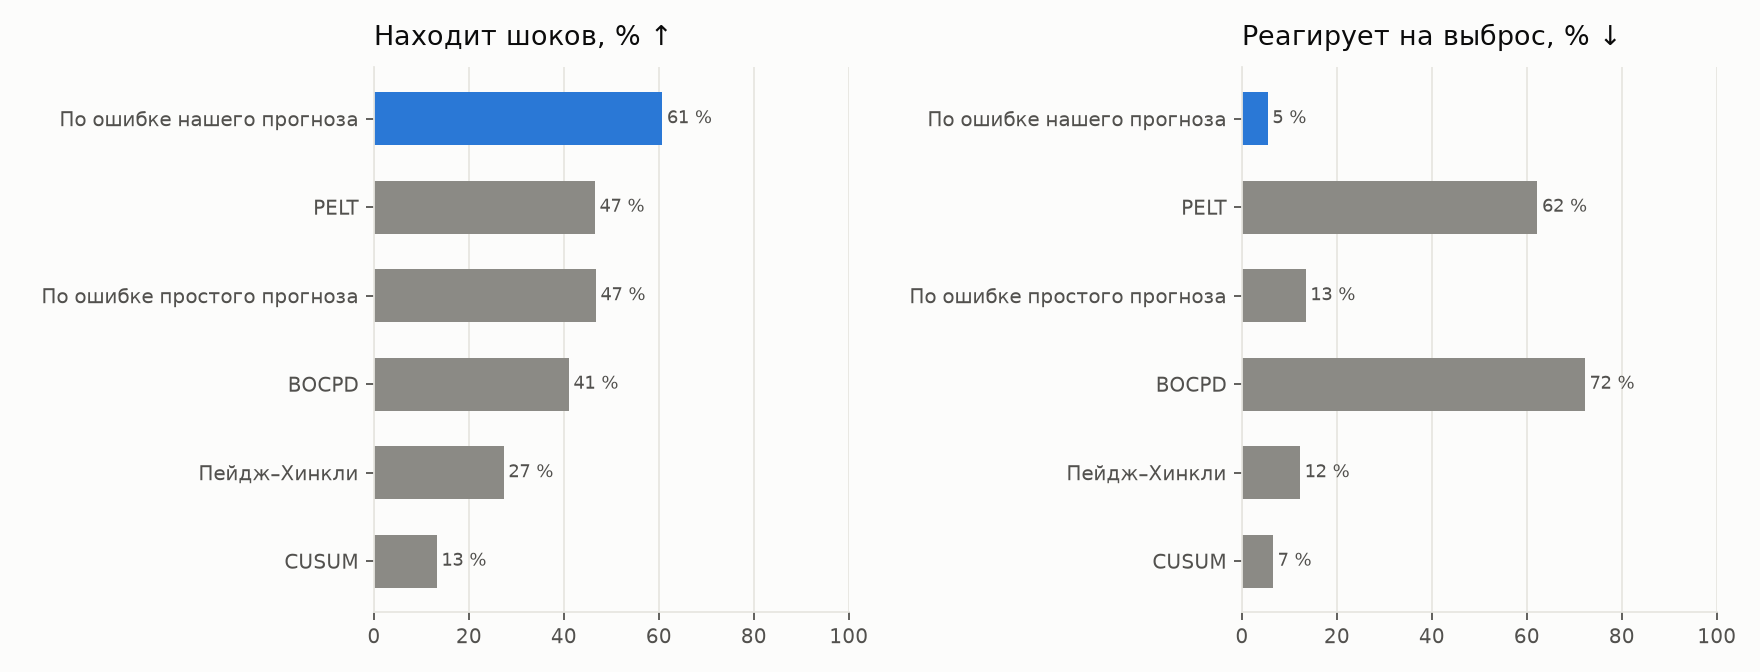
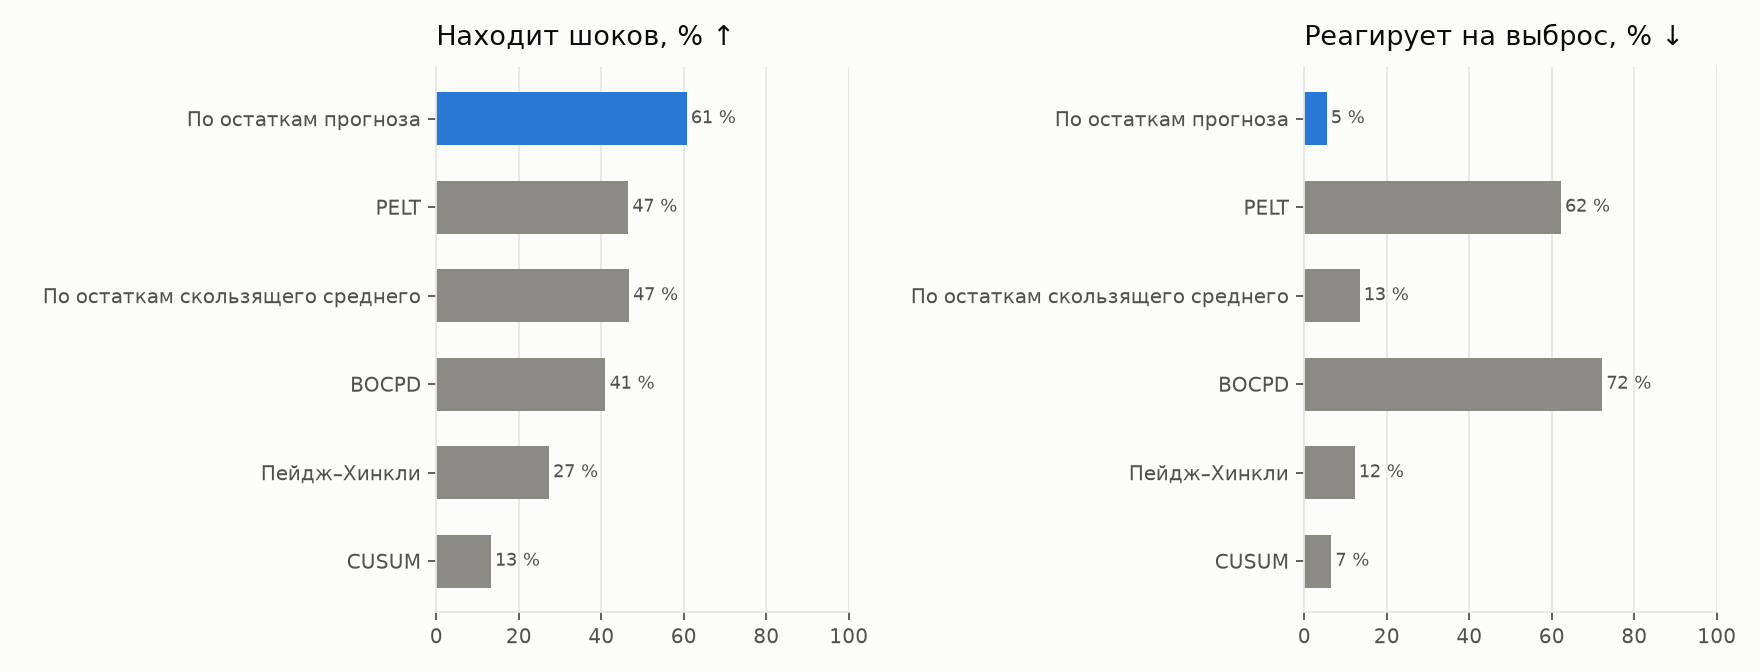
Перешёл на стандартные термины во всех документах, лендинге и графиках

diff --git a/reports/landing/index.html b/reports/landing/index.html
@@ -60,18 +60,18 @@ a{color:var(--blue)}
 <tbody>
 <tr><td>Траты в декабре 2023 (сезонность)</td><td>31 414 руб.</td></tr>
 <tr><td>Рост трат по России за год на момент прогноза</td><td>×1,178</td></tr>
-<tr class="best"><td>Прогноз «национальной основы»</td><td>36 996 руб.</td></tr>
+<tr class="best"><td>Прогноз сезонной наивной модели с дрейфом</td><td>36 996 руб.</td></tr>
 <tr><td>Факт</td><td>36 320 руб. (ошибка 1,8 %)</td></tr>
 </tbody></table></div>
-<p>Поверх основы модели машинного обучения учат только <b>поправку территории</b>: растёт ли МО быстрее или медленнее страны. Тот же прогноз служит детектором шоков: если МО два месяца подряд расходится с прогнозом сильнее остальных МО — это шок.</p>
+<p>Это <b>сезонная наивная модель с дрейфом</b>: прогноз = тот же месяц год назад × рост трат по России (дрейф берётся из агрегированного ряда — элемент иерархического прогнозирования). Поверх неё модели машинного обучения учат только <b>остатки</b> (гибридная модель): растёт ли МО быстрее или медленнее страны. Тот же прогноз служит детектором шоков: если МО два месяца подряд расходится с прогнозом сильнее остальных МО — это шок.</p>
 </div></section>
 
 <section><div class="wrap">
 <h2>Архитектура решения</h2>
 <div class="arch">
 <div class="box a"><h4>1. Данные</h4><p>Траты МО (организаторы), ряд России 2018–2026, справочник МО → регион (ОКТМО), индекс доступности рынков, 103 тыс. заголовков новостей.</p></div>
-<div class="box"><h4>2. Прогноз</h4><p>Национальная основа + поправка территории (сжатие роста, LightGBM) + фундаментальные модели (Chronos-2 дообученный, TimesFM, TiRex) → честный ансамбль с весами по прошлой точности.</p></div>
-<div class="box o"><h4>3. Шоки</h4><p>Для МО — детектор по ошибке прогноза (отклонение от прогноза сильнее остальных МО, 2 месяца подряд). Для России — BOCPD.</p></div>
+<div class="box"><h4>2. Прогноз</h4><p>Сезонная наивная с дрейфом + модели остатков (сжатие к росту страны, LightGBM) + фундаментальные модели (Chronos-2 дообученный, TimesFM, TiRex) → ансамбль с весами по прошлой точности.</p></div>
+<div class="box o"><h4>3. Шоки</h4><p>Для МО — детектор по остаткам прогноза (МО расходится с прогнозом сильнее остальных МО 2 месяца подряд). Для России — BOCPD.</p></div>
 <div class="box y"><h4>4. Новости</h4><p>Заголовок → месяц публикации (без будущего) → МО и регион по названиям → темы → помесячные доли. Объясняют шоки и крупные события.</p></div>
 </div>
 <p class="note">Проверка без подглядывания: перед каждой точкой прогноза модели обучаются только на прошлом; веса ансамбля — только по прошлым месяцам; автоматические тесты на утечку будущего.</p>
@@ -79,20 +79,20 @@ a{color:var(--blue)}
 
 <section><div class="wrap">
 <h2>Сравнение моделей прогноза</h2>
-<figure><img src="../figures/01_mae_by_horizon.png" alt="MAE по горизонтам: Prophet, Chronos-2 дообученный, национальная основа, честный ансамбль"><figcaption>MAE, руб. на жителя в месяц; скользящее окно по 2024 году, 2 016 МО.</figcaption></figure>
+<figure><img src="../figures/01_mae_by_horizon.png" alt="MAE по горизонтам: Prophet, Chronos-2 дообученный, сезонная наивная с дрейфом, ансамбль"><figcaption>MAE, руб. на жителя в месяц; скользящее окно по 2024 году, 2 016 МО.</figcaption></figure>
 <div class="tbl"><table>
 <thead><tr><th>Модель</th><th>1 мес.</th><th>3 мес.</th><th>6 мес.</th><th>12 мес.</th></tr></thead>
 <tbody>
 <tr class="base"><td>Prophet (базовая модель)</td><td>1 805</td><td>1 755</td><td>2 159</td><td>2 901</td></tr>
 <tr class="base"><td>Сезонная наивная «как год назад»</td><td>4 079</td><td>4 345</td><td>4 352</td><td>4 704</td></tr>
-<tr><td>Национальная основа</td><td>1 250</td><td>1 108</td><td>1 143</td><td>1 416</td></tr>
+<tr><td>Сезонная наивная с дрейфом</td><td>1 250</td><td>1 108</td><td>1 143</td><td>1 416</td></tr>
 <tr><td>LightGBM (глобальный, лучший вариант)</td><td>1 216</td><td>1 298</td><td>1 552</td><td>2 993</td></tr>
-<tr><td>Основа + поправка LightGBM</td><td>1 134</td><td>1 441</td><td>1 707</td><td>1 416</td></tr>
+<tr><td>Гибрид: сезонная наивная с дрейфом + LightGBM по остаткам</td><td>1 134</td><td>1 441</td><td>1 707</td><td>1 416</td></tr>
 <tr><td>Chronos-2, без обучения</td><td>1 613</td><td>2 240</td><td>2 736</td><td>5 154</td></tr>
 <tr><td>TimesFM 2.5, без обучения</td><td>1 486</td><td>1 903</td><td>2 432</td><td>4 200</td></tr>
 <tr><td>TiRex, без обучения</td><td>1 335</td><td>1 908</td><td>1 997</td><td>3 086</td></tr>
 <tr><td>Chronos-2, дообученный</td><td>1 413</td><td>1 660</td><td>1 860</td><td>2 234</td></tr>
-<tr class="best"><td>Честный ансамбль (лучшая модель)</td><td>990</td><td>1 120</td><td>1 113</td><td>1 416</td></tr>
+<tr class="best"><td>Ансамбль с весами по обратной ошибке (лучшая модель)</td><td>990</td><td>1 120</td><td>1 113</td><td>1 416</td></tr>
 </tbody></table></div>
 <p class="note">R² по росту трат за год (насколько угадано, растёт МО быстрее или медленнее среднего): ансамбль 0,29 / 0,02 / −0,08 / −0,44, Prophet −0,85 / −0,97 / −2,17 / −5,72. Горизонт 12 месяцев оценивается по одной точке (24 месяца данных).</p>
 <figure><img src="../figures/02_example_forecast.png" alt="Майкоп: факт и прогнозы на месяц вперёд"><figcaption>Майкоп: факт и прогнозы на месяц вперёд в 2024 году.</figcaption></figure>
@@ -105,9 +105,9 @@ a{color:var(--blue)}
 <div class="tbl"><table>
 <thead><tr><th>Детектор</th><th>Находит</th><th>Задержка, мес.</th><th>Тревога до шока</th><th>Реакция на выброс</th></tr></thead>
 <tbody>
-<tr class="best"><td>По ошибке нашего прогноза</td><td>61 %</td><td>1,4</td><td>2 %</td><td>5 %</td></tr>
+<tr class="best"><td>По остаткам прогноза</td><td>61 %</td><td>1,4</td><td>2 %</td><td>5 %</td></tr>
 <tr><td>PELT</td><td>47 %</td><td>0,9</td><td>6 %</td><td>62 %</td></tr>
-<tr><td>По ошибке простого прогноза</td><td>47 %</td><td>1,1</td><td>5 %</td><td>13 %</td></tr>
+<tr><td>По остаткам скользящего среднего</td><td>47 %</td><td>1,1</td><td>5 %</td><td>13 %</td></tr>
 <tr><td>BOCPD</td><td>41 %</td><td>0,5</td><td>7 %</td><td>72 %</td></tr>
 <tr><td>Пейдж–Хинкли</td><td>27 %</td><td>1,7</td><td>7 %</td><td>12 %</td></tr>
 <tr><td>CUSUM</td><td>13 %</td><td>2,0</td><td>2 %</td><td>7 %</td></tr>
@@ -131,7 +131,7 @@ a{color:var(--blue)}
 <li><b>Место.</b> Город в заголовке → МО и регион; регион → все его МО; без места — общероссийская новость.</li>
 <li><b>Частота.</b> Поток новостей сводится к месячным долям тем (ЧС, закрытие и открытие производств, выплаты, цены, ставка).</li>
 </ul>
-<p><b>Честный результат:</b> новости из федерального СМИ хорошо объясняют крупные события (паводки в Орске и Кургане), но систематического выигрыша для малых МО не дают — о них почти не пишут (конкретное МО названо в 2 % заголовков). Направление развития — региональные СМИ.</p>
+<p><b>Результат:</b> новости из федерального СМИ хорошо объясняют крупные события (паводки в Орске и Кургане), но систематического выигрыша для малых МО не дают — о них почти не пишут (конкретное МО названо в 2 % заголовков). Направление развития — региональные СМИ.</p>
 </div></section>
 
 <footer><div class="wrap">

diff --git a/src/forecast/foundation.py b/src/forecast/foundation.py
@@ -229,3 +229,56 @@ class TimesFMXReg(TimesFM):
             static_categorical_covariates={"region": [int(r) for r in reg]},
             xreg_mode="xreg + timesfm")
         return np.stack([np.asarray(p)[:steps] for p in point], axis=1)
+
+
+class TimesFMLoRA:
+    """TimesFM 2.5 (версия transformers), дообученный LoRA перед каждой точкой прогноза.
+
+    По примеру из навыка timesfm-forecasting (examples/finetuning): адаптер LoRA на все
+    линейные слои, AdamW, косинусное расписание. Обучающие окна (контекст 32 мес. →
+    следующие 12 мес.) нарезаются случайно из рядов МО, обрезанных по origin и удлинённых
+    национальным рядом, — будущее после origin модели недоступно. Прогноз — медиана.
+    """
+    name = "timesfm_lora"
+
+    def __init__(self, cfg_path="configs/foundation.yaml"):
+        self.cfg = yaml.safe_load(Path(cfg_path).read_text(encoding="utf-8"))["timesfm_lora"]
+        self.nat = _nat_level()
+
+    def _windows(self, series, rng):
+        c, h = self.cfg["context_len"], self.cfg["horizon_len"]
+        ctx, tgt = [], []
+        for _ in range(self.cfg["num_samples"]):
+            s = series[rng.integers(len(series))]
+            st = rng.integers(0, len(s) - c - h + 1)
+            ctx.append(s[st:st + c]); tgt.append(s[st + c:st + c + h])
+        return torch.tensor(np.array(ctx), dtype=torch.float32), torch.tensor(np.array(tgt), dtype=torch.float32)
+
+    def predict(self, train, steps):
+        from peft import LoraConfig, get_peft_model
+        from transformers import TimesFm2_5ModelForPrediction
+        torch.manual_seed(self.cfg["seed"])
+        rng = np.random.default_rng(self.cfg["seed"])
+        ext = _extend(train, self.nat)
+        series = [ext[c].values.astype(np.float32) for c in ext.columns]
+        base = TimesFm2_5ModelForPrediction.from_pretrained(self.cfg["model_dir"], torch_dtype=torch.float32)
+        model = get_peft_model(base, LoraConfig(r=self.cfg["lora_r"], lora_alpha=self.cfg["lora_alpha"],
+                                                target_modules="all-linear", lora_dropout=0.05, bias="none"))
+        X, T = self._windows(series, rng)
+        opt = torch.optim.AdamW([p for p in model.parameters() if p.requires_grad], lr=self.cfg["lr"], weight_decay=0.01)
+        bs, n_steps = self.cfg["batch_size"], self.cfg["num_steps"]
+        sched = torch.optim.lr_scheduler.CosineAnnealingLR(opt, T_max=n_steps)
+        model.train()
+        for step in range(n_steps):
+            i = rng.integers(0, len(X), bs)
+            loss = model(past_values=X[i], future_values=T[i], forecast_context_len=self.cfg["context_len"]).loss
+            loss.backward()
+            torch.nn.utils.clip_grad_norm_(model.parameters(), 1.0)
+            opt.step(); opt.zero_grad(); sched.step()
+        model.eval()
+        out = []
+        with torch.no_grad():
+            for k in range(0, len(series), 256):
+                o = model(past_values=[torch.tensor(s) for s in series[k:k + 256]])
+                out.append(o.full_predictions[:, :steps, 5].numpy())      # индекс 5 — медиана
+        return np.concatenate(out).T

diff --git a/src/report/figures.py b/src/report/figures.py
@@ -46,7 +46,7 @@ def mae_by_horizon():
     s = pd.concat([s[s.model != "ens_inv_mae"], summarize(ens)])
     t = s.pivot(index="model", columns="h", values="MAE")
     rows = [("prophet", "Prophet (базовая модель)", ORANGE), ("chronos2_ft", "Chronos-2 дообученный", YELLOW),
-            ("snaive_natg", "Национальная основа", AQUA), ("ens_inv_mae", "Честный ансамбль", BLUE)]
+            ("snaive_natg", "Сезонная наивная с дрейфом", AQUA), ("ens_inv_mae", "Ансамбль (веса по обратной ошибке)", BLUE)]
     fig, ax = _fig(9, 4.6)
     hs = [1, 3, 6, 12]
     w = 0.2
@@ -80,7 +80,7 @@ def example_forecast(tid=1, name="Майкоп"):
 
 def detectors():
     s = pd.read_csv("data/interim/changepoint/benchmark_summary.csv", index_col=0)
-    names = {"base_residual": "По ошибке нашего прогноза", "pelt": "PELT", "forecast_residual": "По ошибке простого прогноза",
+    names = {"base_residual": "По остаткам прогноза", "pelt": "PELT", "forecast_residual": "По остаткам скользящего среднего",
              "bocpd": "BOCPD", "page_hinkley": "Пейдж–Хинкли", "cusum": "CUSUM"}
     s = s.loc[[k for k in names if k in s.index]].iloc[::-1]
     fig, (a1, a2) = _fig(11, 4.2, 2)
@@ -108,7 +108,7 @@ def shock_examples(items=((1305, "Волгореченск"), (1673, "Орск")
         y = Y[tid]
         base = [y.iloc[t - 12] * np.exp(L[Y.index[t - 1]] - L[Y.index[t - 1] - pd.DateOffset(years=1)]) for t in range(12, 24)]
         ax.plot(Y.index, y, color=INK, linewidth=2, label="Факт")
-        ax.plot(Y.index[12:], base, color=BLUE, linewidth=2, linestyle="--", label="Прогноз основы на 1 мес.")
+        ax.plot(Y.index[12:], base, color=BLUE, linewidth=2, linestyle="--", label="Прогноз сезонной наивной с дрейфом на 1 мес.")
         a = sh[(sh.territory_id == tid) & (sh.detector == "base_residual")]
         if len(a):
             ax.axvline(a.alarm.iloc[0], color=ORANGE, linewidth=2)

diff --git a/reports/REPORT.md b/reports/REPORT.md
@@ -40,23 +40,24 @@
 ### 4.1. Ключевое наблюдение
 Расходы МО в основном движутся общими для страны факторами — сезонностью и годовым ростом. При 12–23 месяцах истории годовой рост отдельного МО не оценивается (нужны одинаковые месяцы двух лет), а национальный ряд (с 2018 года) показывает его всегда.
 
-### 4.2. Национальная основа
-Сезонная наивная модель с дрейфом, где дрейф берётся из национального ряда *N*:
+### 4.2. Сезонная наивная модель с дрейфом
+Сезонная наивная модель с дрейфом (seasonal naive with drift): прогноз = значение того же месяца год назад, умноженное на годовой рост. Дрейф берётся из агрегированного национального ряда *N* — элемент иерархического (top-down) прогнозирования:
 
 *ŷ<sub>i,o+h</sub>* = *y<sub>i,o+h−12</sub>* · *N<sub>o</sub>* / *N<sub>o−12</sub>*.
 
 Используются только значения не позже *o*. Проверено (56 точек прогноза на национальном ряде 2021–2026), что «рост сохранится» точнее прогноза роста моделями ETS и Chronos-2 (ошибка годового роста 1,6 / 2,5 / 3,7 / 5,6 п.п. против 2,1–8,4), за исключением лет шоков (2021–2022), — это мотивирует вторую часть решения.
 
-### 4.3. Поправка территории
-- **Сжатие собственного роста:** лог-рост = рост страны + *w*·(рост МО − рост страны), *w* ∈ {0,25; 0,5; 0,75}. Оптимальное *w* убывает с горизонтом (≈ 0,5–0,75 на 1 мес., ≈ 0,25 на 3–6 мес.): индивидуальные отклонения МО затухают.
-- **LightGBM на поправку:** глобальная модель на всех МО учит log *y* − log(основа); признаки — рост МО относительно страны за 1/3/6/12 мес., прошлое отклонение от основы, доли категорий, индекс доступности рынков, флаги Москва / Мособласть / СПб.
+### 4.3. Модели остатков (гибридный подход)
+Поверх сезонной наивной модели с дрейфом учится отклонение МО от неё (residual modeling).
+- **Сжатие (shrinkage) собственного роста к росту страны:** лог-рост = рост страны + *w*·(рост МО − рост страны), *w* ∈ {0,25; 0,5; 0,75}. Оптимальное *w* убывает с горизонтом (≈ 0,5–0,75 на 1 мес., ≈ 0,25 на 3–6 мес.): индивидуальные отклонения МО затухают.
+- **LightGBM по остаткам:** глобальная модель на всех МО учит log *y* − log *ŷ*<sup>СН-дрейф</sup>; признаки — рост МО относительно страны за 1/3/6/12 мес., прошлый остаток, доли категорий, индекс доступности рынков, флаги Москва / Мособласть / СПб.
 - **Глобальный LightGBM на уровень** (лаги, сезонный профиль из национального ряда, доли категорий) — для сравнения; проверен вклад групп признаков (ablation).
 
 ### 4.4. Фундаментальные модели
-Chronos-Bolt, Chronos-2 (Amazon), TimesFM 2.5 (Google), TiRex (NX-AI, архитектура xLSTM), zero-shot. Лучшая zero-shot модель — TiRex с удлинённым контекстом (35 млн параметров). Короткий контекст МО удлиняется национальным рядом 2018–2022, масштабированным к уровню МО по 2023 году (без утечки). Chronos-2 дополнительно **дообучается перед каждой точкой отсечения** на рядах, обрезанных по этой точке (300 шагов, CPU). Moirai и Toto не установлены — несовместимы с окружением (Python 3.14, torch 2.14).
+Chronos-Bolt, Chronos-2 (Amazon), TimesFM 2.5 (Google), TiRex (NX-AI, архитектура xLSTM), zero-shot. Лучшая zero-shot модель — TiRex с backcasting (35 млн параметров). Короткий ряд МО ретроспективно восстанавливается (backcasting) по национальному ряду 2018–2022, масштабированному к уровню МО по 2023 году (без утечки; TimesFM требует ≥ 32 точек контекста). Chronos-2 дополнительно **дообучается перед каждой точкой отсечения** на рядах, обрезанных по этой точке (300 шагов, CPU). Moirai и Toto не установлены — несовместимы с окружением (Python 3.14, torch 2.14).
 
-### 4.5. Честный ансамбль
-Для горизонта *h* и точки *o* веса моделей вычисляются только по прошлым точкам *o′* с *o′ + h ≤ o*. Основной метод выбран заранее — веса ∝ 1/MAE на прошлых точках; методы «лучшая модель», «среднее K лучших», NNLS — проверка устойчивости. Без прошлого (в т. ч. весь *h* = 12) используется национальная основа.
+### 4.5. Ансамбль с весами по обратной ошибке
+Для горизонта *h* и точки *o* веса моделей вычисляются только по прошлым точкам *o′* с *o′ + h ≤ o*. Основной метод выбран заранее — веса ∝ 1/MAE на прошлых точках; методы «лучшая модель», «среднее K лучших», NNLS — проверка устойчивости. Без прошлого (в т. ч. весь *h* = 12) используется сезонная наивная модель с дрейфом. Вариант с отбором (исключаются модели хуже сезонной наивной с дрейфом на прошлых точках) — проверка устойчивости: 953 / 1 124 / 1 129 / 1 416.
 
 ## 5. Результаты прогноза
 
@@ -66,30 +67,30 @@ MAE, руб. на жителя в месяц:
 |---|---:|---:|---:|---:|
 | **Prophet** (базовая) | 1 805 | 1 755 | 2 159 | 2 901 |
 | Сезонная наивная | 4 079 | 4 345 | 4 352 | 4 704 |
-| Национальная основа | 1 250 | 1 108 | 1 143 | 1 416 |
+| Сезонная наивная с дрейфом | 1 250 | 1 108 | 1 143 | 1 416 |
 | LightGBM (уровень, лучший вариант) | 1 216 | 1 298 | 1 552 | 2 993 |
-| Основа + LightGBM-поправка | 1 134 | 1 441 | 1 707 | 1 416 |
-| Chronos-2, zero-shot, удлинённый контекст | 1 613 | 2 240 | 2 736 | 5 154 |
-| TimesFM 2.5, zero-shot, удлинённый контекст | 1 486 | 1 903 | 2 432 | 4 200 |
+| Гибрид: сезонная наивная с дрейфом + LightGBM по остаткам | 1 134 | 1 441 | 1 707 | 1 416 |
+| Chronos-2, zero-shot, backcasting | 1 613 | 2 240 | 2 736 | 5 154 |
+| TimesFM 2.5, zero-shot, backcasting | 1 486 | 1 903 | 2 432 | 4 200 |
 | Chronos-2, дообученный | 1 413 | 1 660 | 1 860 | 2 234 |
-| TiRex, zero-shot, удлинённый контекст | 1 335 | 1 908 | 1 997 | 3 086 |
-| **Честный ансамбль (1/MAE), все модели** | **990** | **1 120** | **1 113** | **1 416** |
-| Честный ансамбль без zero-shot фундаментальных моделей | 955 | 1 075 | 1 113 | 1 416 |
+| TiRex, zero-shot, backcasting | 1 335 | 1 908 | 1 997 | 3 086 |
+| **Ансамбль с весами по обратной ошибке, все модели** | **990** | **1 120** | **1 113** | **1 416** |
+| Тот же ансамбль без zero-shot фундаментальных моделей | 955 | 1 075 | 1 113 | 1 416 |
 
 R² (уровень / рост г/г) для ансамбля: 0,99 / 0,29 (1 мес.), 0,98 / 0,02 (3 мес.), 0,98 / −0,08 (6 мес.), 0,98 / −0,44 (12 мес.); для Prophet 0,95 / −0,85 … 0,92 / −5,72.
 
-**Выбор лучшей модели:** честный ансамбль из всех моделей на горизонтах 1 и 6 мес.; он превосходит Prophet на 45 / 36 / 48 / 51 %. На 3 мес. ансамбль (1 120) практически равен национальной основе (1 108), на 12 мес. совпадает с ней. Состав ансамбля не подбирался по итоговым цифрам: добавление слабых zero-shot моделей (TimesFM, TiRex) ухудшило ансамбль (955 → 990 на 1 мес.), т. к. веса 1/MAE почти равные и слабые модели «разбавляют» сильные, — в итог идёт версия со всеми моделями.
+**Выбор лучшей модели:** ансамбль с весами по обратной ошибке из всех моделей на горизонтах 1 и 6 мес.; он превосходит Prophet на 45 / 36 / 48 / 51 %. На 3 мес. ансамбль (1 120) практически равен сезонной наивной модели с дрейфом (1 108), на 12 мес. совпадает с ней. Состав ансамбля не подбирался по итоговым цифрам: добавление слабых zero-shot моделей (TimesFM, TiRex) ухудшило ансамбль (955 → 990 на 1 мес.), т. к. веса 1/MAE почти равные и слабые модели «разбавляют» сильные, — в итог идёт версия со всеми моделями.
 
 **Выводы:**
 1. Правильно найденный общий фактор (национальный рост) даёт бо́льший выигрыш, чем усложнение модели.
-2. ML-поправка полезна на коротком горизонте; на дальних обучающих пар мало и модель переобучается.
-3. Фундаментальные модели без адаптации проигрывают на коротких рядах; удлинение контекста почти вдвое снижает ошибку, а дообучение Chronos-2 позволяет превзойти Prophet на всех горизонтах.
+2. ML-модель остатков полезна на коротком горизонте; на дальних обучающих пар мало и модель переобучается.
+3. Фундаментальные модели без адаптации проигрывают на коротких рядах; backcasting почти вдвое снижает ошибку, а дообучение Chronos-2 позволяет превзойти Prophet на всех горизонтах.
 4. Национальные признаки (одинаковые для всех МО в месяц) ухудшают глобальную модель: при 11–23 датах обучения модель запоминает «отпечаток даты».
 
 ## 6. Методология обнаружения шоков
 
 ### 6.1. Детекторы (онлайн: решение в месяце *t* — по данным до *t*)
-CUSUM; тест Пейджа–Хинкли; BOCPD (Adams & MacKay, 2007; гауссова модель, вычисления в логарифмах); PELT (ruptures) в расширяющемся окне с непрерывной силой сигнала; детектор по ошибке простого прогноза; **детектор по ошибке прогноза национальной основы** — совмещение прогноза и детекции:
+CUSUM; тест Пейджа–Хинкли; BOCPD (Adams & MacKay, 2007; гауссова модель, вычисления в логарифмах); PELT (ruptures) в расширяющемся окне с непрерывной силой сигнала; детектор по остаткам скользящего среднего; **детектор по остаткам прогноза** сезонной наивной модели с дрейфом (forecast-residual change detection) с кросс-секционной нормировкой — совмещение прогноза и детекции:
 
 *e<sub>i,t</sub>* = [log *y<sub>i,t</sub>* − log *ŷ<sub>i,t</sub>* − med<sub>j</sub>(…)] / σ<sub>t</sub>,
 
@@ -105,18 +106,18 @@ CUSUM; тест Пейджа–Хинкли; BOCPD (Adams & MacKay, 2007; гау
 
 | Детектор | Найдено | Задержка, мес. | Тревога до шока | Реакция на выброс |
 |---|---:|---:|---:|---:|
-| **По ошибке прогноза основы** | **61 %** | 1,4 | **2 %** | **5 %** |
+| **По остаткам прогноза** | **61 %** | 1,4 | **2 %** | **5 %** |
 | PELT | 47 % | 0,9 | 6 % | 62 % |
-| По ошибке простого прогноза | 47 % | 1,1 | 5 % | 13 % |
+| По остаткам скользящего среднего | 47 % | 1,1 | 5 % | 13 % |
 | BOCPD | 41 % | 0,5 | 7 % | 72 % |
 | Пейдж–Хинкли | 27 % | 1,7 | 7 % | 12 % |
 | CUSUM | 13 % | 2,0 | 2 % | 7 % |
 
 Сдвиги 20 % лучший детектор находит в 88–97 % случаев, 10 % — в 61–66 %. На национальном ряде BOCPD обнаруживает ковид сразу, шок 2022 г. — через 2 мес., без лишних тревог за 2020–2026; PELT — сразу / через 1 мес., 2 лишние тревоги; CUSUM и Пейдж–Хинкли на растущем ряде тревожат почти постоянно.
 
-**Выбор:** для МО — детектор по ошибке прогноза основы; для агрегатов (страна) — BOCPD.
+**Выбор:** для МО — детектор по остаткам прогноза; для агрегатов (страна) — BOCPD.
 
-**Шоки 2024 г. в МО** (лучший детектор, сдвиг ≥ 10 %, не сезонность): 22 МО из 2 016, напр. Бай-Тайгинский р-н (Тыва) −22 % (окт.), Верхнеколымский р-н (Якутия) −20 % (сент.), Волгореченск −19 % (июнь; тревога в тот же месяц), Орск — рост выше прогноза с мая 2024 г. (тревога в июне) после апрельского паводка. Январский провал МО Республики Алтай простыми детекторами принимается за шок, но это собственная сезонность (в январе 2023 г. — то же); детектор по ошибке прогноза его корректно не отмечает.
+**Шоки 2024 г. в МО** (лучший детектор, сдвиг ≥ 10 %, не сезонность): 22 МО из 2 016, напр. Бай-Тайгинский р-н (Тыва) −22 % (окт.), Верхнеколымский р-н (Якутия) −20 % (сент.), Волгореченск −19 % (июнь; тревога в тот же месяц), Орск — рост выше прогноза с мая 2024 г. (тревога в июне) после апрельского паводка. Январский провал МО Республики Алтай простыми детекторами принимается за шок, но это собственная сезонность (в январе 2023 г. — то же); детектор по остаткам прогноза его корректно не отмечает.
 
 ## 8. Новости
 
@@ -136,7 +137,7 @@ CUSUM; тест Пейджа–Хинкли; BOCPD (Adams & MacKay, 2007; гау
 | Новости региона в окне 22 шоков 2024 г. | 41 % против 48 % у случайных МО — различия нет |
 | Раннее предупреждение: тревога в 1–3 мес. после новостей о ЧС / закрытиях | относительный риск 0,64 |
 | Ошибка прогноза МО региона после всплеска новостей (лаг 0 / 1 / 2) | ×1,04 / ×1,02 / ×1,20 к остальным МО, p = 0,53 / 0,68 / 0,32 |
-| Новостные признаки в LightGBM-поправке | MAE 1 139 / 1 443 / 1 705 / 1 416 против 1 134 / 1 441 / 1 707 / 1 416 |
+| Новостные признаки в LightGBM по остаткам | MAE 1 139 / 1 443 / 1 705 / 1 416 против 1 134 / 1 441 / 1 707 / 1 416 |
 | Крупные ЧС на уровне города | Орск (паводок, апрель 2024): ошибка прогноза 2,7σ в мае–июне, тревога в июне; Курган (паводок, апрель 2024): 1,5σ; Липецк (август 2024): 2,2σ |
 
 **Вывод.** Предложенный способ согласования корректен по времени и месту и проверен тестом. Федеральный источник объясняет крупные локальные события и даёт для них опережающий сигнал (Орск: новости 6–9 апреля, сдвиг трат в мае–июне), но не даёт систематического выигрыша для малых МО — о них федеральные СМИ почти не пишут. Направление развития — региональные СМИ и GDELT с геопривязкой.

diff --git a/README.md b/README.md
@@ -14,12 +14,12 @@
 | Модель | 1 мес. | 3 мес. | 6 мес. | 12 мес. |
 |---|---:|---:|---:|---:|
 | Prophet (базовая модель) | 1 805 | 1 755 | 2 159 | 2 901 |
-| Национальная основа: «тот же месяц год назад × рост России» | 1 250 | 1 108 | 1 143 | 1 416 |
+| Сезонная наивная модель с дрейфом: «тот же месяц год назад × рост России» | 1 250 | 1 108 | 1 143 | 1 416 |
 | Chronos-2, дообученный | 1 413 | 1 660 | 1 860 | 2 234 |
-| TiRex (zero-shot, удлинённая история) | 1 335 | 1 908 | 1 997 | 3 086 |
-| **Честный ансамбль (веса по прошлой точности)** | **990** | **1 120** | **1 113** | **1 416** |
+| TiRex (zero-shot, backcasting) | 1 335 | 1 908 | 1 997 | 3 086 |
+| **Ансамбль с весами по обратной ошибке (по скользящему окну)** | **990** | **1 120** | **1 113** | **1 416** |
 
-**Обнаружение шоков** — лучший метод: детектор по ошибке прогноза национальной основы. На искусственных шоках находит 61 % (сдвиги 20 % — 88–97 %), реагирует на разовые выбросы в 5 % случаев; для России в целом — BOCPD (кризисы 2020 и 2022 годов найдены, лишних тревог нет).
+**Обнаружение шоков** — лучший метод: детектор по остаткам прогноза сезонной наивной модели с дрейфом. На искусственных шоках находит 61 % (сдвиги 20 % — 88–97 %), реагирует на разовые выбросы в 5 % случаев; для России в целом — BOCPD (кризисы 2020 и 2022 годов найдены, лишних тревог нет).
 
 ## Установка
 
@@ -43,7 +43,7 @@ python3 -m venv .venv
 
 # 3. Прогноз: модели на скользящем окне → data/interim/forecasts, метрики → data/interim/metrics.csv
 .venv/bin/python -m src.eval.run --models naive seasonal_naive snaive_natg prophet lgbm_resid chronos2_ft
-#    честный ансамбль по сохранённым прогнозам
+#    ансамбль с весами по обратной ошибке по сохранённым прогнозам
 .venv/bin/python -m src.eval.ensemble
 
 # 4. Обнаружение шоков: бенчмарк детекторов, реальные кризисы РФ, шоки в МО за 2024 год
@@ -70,7 +70,7 @@ data/raw/       исходные данные: organizers/ — набор орг
 data/external/  справочник МО → регион (ОКТМО), макроданные, новости
 src/data/       загрузка панели
 src/eval/       скользящее окно, метрики (MAE, R²), ансамбль
-src/forecast/   модели: бейзлайны, Prophet, LightGBM, национальная основа, фундаментальные модели
+src/forecast/   модели: бейзлайны, Prophet, LightGBM, сезонная наивная с дрейфом, гибрид с моделью остатков, фундаментальные модели
 src/changepoint/ детекторы шоков и их оценка
 src/news/       сбор и согласование новостей
 src/external/   внешние данные
